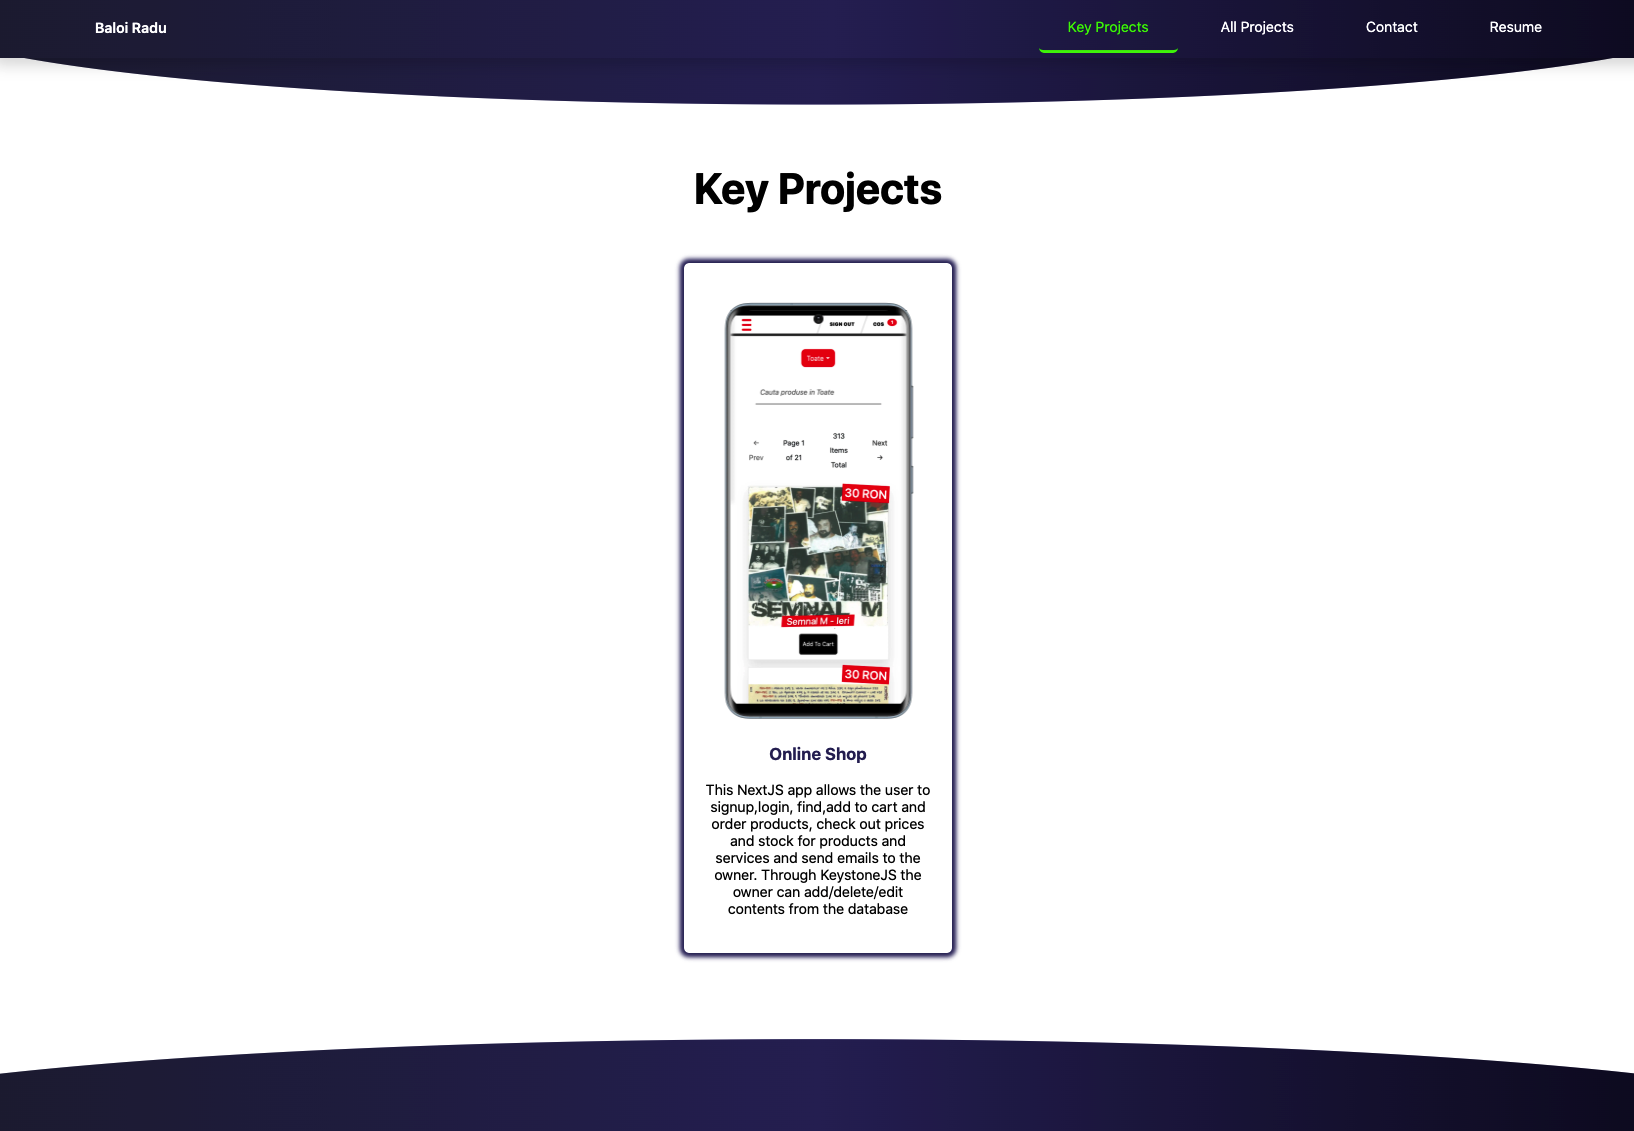
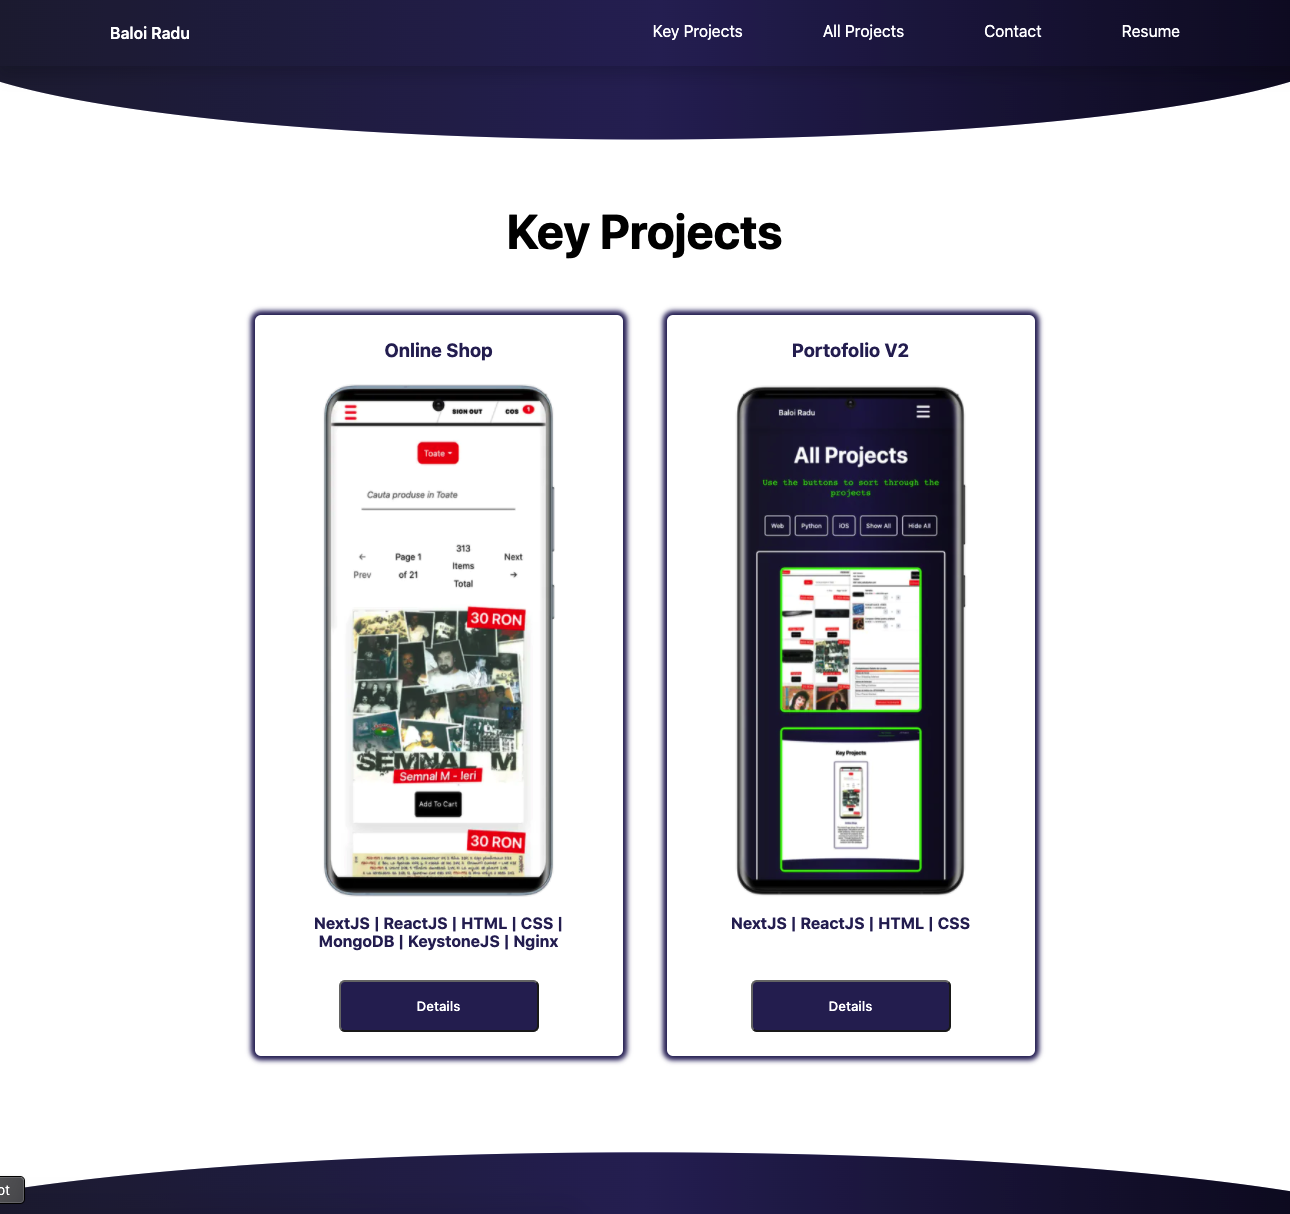
modal details

diff --git a/public/sw.js b/public/sw.js
@@ -1,1 +1,1 @@
-if(!self.define){let e,s={};const a=(a,n)=>(a=new URL(a+".js",n).href,s[a]||new Promise((s=>{if("document"in self){const e=document.createElement("script");e.src=a,e.onload=s,document.head.appendChild(e)}else e=a,importScripts(a),s()})).then((()=>{let e=s[a];if(!e)throw new Error(`Module ${a} didn’t register its module`);return e})));self.define=(n,i)=>{const t=e||("document"in self?document.currentScript.src:"")||location.href;if(s[t])return;let c={};const r=e=>a(e,t),o={module:{uri:t},exports:c,require:r};s[t]=Promise.all(n.map((e=>o[e]||r(e)))).then((e=>(i(...e),c)))}}define(["./workbox-22294e6b"],(function(e){"use strict";importScripts(),self.skipWaiting(),e.clientsClaim(),e.precacheAndRoute([{url:"/_next//static/media/coding.ed3fb6cf.png",revision:"ly0aYfhYOhMSamR5JObs_"},{url:"/_next//static/media/crawl-thumb.d7b32672.png",revision:"ly0aYfhYOhMSamR5JObs_"},{url:"/_next//static/media/documentation-thumb.f8c19369.png",revision:"ly0aYfhYOhMSamR5JObs_"},{url:"/_next//static/media/face-thumb.a86bdd93.png",revision:"ly0aYfhYOhMSamR5JObs_"},{url:"/_next//static/media/landing-thumb.f00968cf.png",revision:"ly0aYfhYOhMSamR5JObs_"},{url:"/_next//static/media/lesperance-kp.621296b4.png",revision:"ly0aYfhYOhMSamR5JObs_"},{url:"/_next//static/media/lesperance-thumb.85f6aacb.png",revision:"ly0aYfhYOhMSamR5JObs_"},{url:"/_next//static/media/med-thumb.e83ad19d.png",revision:"ly0aYfhYOhMSamR5JObs_"},{url:"/_next//static/media/portofolioV1-thumb.a157a1a7.png",revision:"ly0aYfhYOhMSamR5JObs_"},{url:"/_next//static/media/portofolioV2-kp.1aac147b.png",revision:"ly0aYfhYOhMSamR5JObs_"},{url:"/_next//static/media/portofolioV2-thumb.df14cd91.png",revision:"ly0aYfhYOhMSamR5JObs_"},{url:"/_next//static/media/survey-thumb.ddaf4e2b.png",revision:"ly0aYfhYOhMSamR5JObs_"},{url:"/_next/static/chunks/316-3238504895903330.js",revision:"ly0aYfhYOhMSamR5JObs_"},{url:"/_next/static/chunks/framework-91d7f78b5b4003c8.js",revision:"ly0aYfhYOhMSamR5JObs_"},{url:"/_next/static/chunks/main-857fbf388abd6aa9.js",revision:"ly0aYfhYOhMSamR5JObs_"},{url:"/_next/static/chunks/pages/_app-e461f6980a6d8ea9.js",revision:"ly0aYfhYOhMSamR5JObs_"},{url:"/_next/static/chunks/pages/_error-2280fa386d040b66.js",revision:"ly0aYfhYOhMSamR5JObs_"},{url:"/_next/static/chunks/pages/index-4c1417cb81d77230.js",revision:"ly0aYfhYOhMSamR5JObs_"},{url:"/_next/static/chunks/pages/resume-cce5519a3666b4c4.js",revision:"ly0aYfhYOhMSamR5JObs_"},{url:"/_next/static/chunks/polyfills-5cd94c89d3acac5f.js",revision:"ly0aYfhYOhMSamR5JObs_"},{url:"/_next/static/chunks/webpack-49b6f2937c9ce9f4.js",revision:"ly0aYfhYOhMSamR5JObs_"},{url:"/_next/static/ly0aYfhYOhMSamR5JObs_/_buildManifest.js",revision:"ly0aYfhYOhMSamR5JObs_"},{url:"/_next/static/ly0aYfhYOhMSamR5JObs_/_middlewareManifest.js",revision:"ly0aYfhYOhMSamR5JObs_"},{url:"/_next/static/ly0aYfhYOhMSamR5JObs_/_ssgManifest.js",revision:"ly0aYfhYOhMSamR5JObs_"},{url:"/coding.png",revision:"2380583faf92b951fd2ec2bea6ba87b7"},{url:"/crawl-thumb.png",revision:"9aa47ad6f8ac77877cd6756c1f0fc6ea"},{url:"/documentation-thumb.png",revision:"74f08cfe8c7a28c7a47fc7d53d5607f3"},{url:"/face-thumb.png",revision:"46d01220c0411dc4df367f16cde19919"},{url:"/favicon.ico",revision:"c30c7d42707a47a3f4591831641e50dc"},{url:"/icon-192x192.png",revision:"a1429b2c9112e49d5e8c66d1c4b8622a"},{url:"/icon-256x256.png",revision:"7520cd9bc240e3c0d16ac050ea75d572"},{url:"/icon-384x384.png",revision:"8d9642399c753de1a7b1fac58526164b"},{url:"/icon-512x512.png",revision:"5272fc9888c02477439a3ee0adb5aafb"},{url:"/landing-thumb.png",revision:"ee3525866378cbdbfd126fe57c3933d6"},{url:"/lesperance-kp.png",revision:"b56e2505415a9c3f51dae423afcc9500"},{url:"/lesperance-thumb.png",revision:"b44408da8a3913798038c8f70e282332"},{url:"/manifest.json",revision:"25e7855fbf08a03b76a736e3fc6c4b07"},{url:"/med-thumb.png",revision:"96b6e533fd3c0c49230f8a9e0e51b0ce"},{url:"/portofolioV1-thumb.png",revision:"7b7aba56e488ab448d1175f5137e6597"},{url:"/portofolioV2-kp.png",revision:"6c60e554a42f84a0224410091bf62510"},{url:"/portofolioV2-thumb.png",revision:"0e7b4d0ced24cefc90c13911d785b065"},{url:"/survey-thumb.png",revision:"8fed24d2bd1234091d2b3276728fe664"}],{ignoreURLParametersMatching:[]}),e.cleanupOutdatedCaches(),e.registerRoute("/",new e.NetworkFirst({cacheName:"start-url",plugins:[{cacheWillUpdate:async({request:e,response:s,event:a,state:n})=>s&&"opaqueredirect"===s.type?new Response(s.body,{status:200,statusText:"OK",headers:s.headers}):s}]}),"GET"),e.registerRoute(/^https:\/\/fonts\.(?:gstatic)\.com\/.*/i,new e.CacheFirst({cacheName:"google-fonts-webfonts",plugins:[new e.ExpirationPlugin({maxEntries:4,maxAgeSeconds:31536e3})]}),"GET"),e.registerRoute(/^https:\/\/fonts\.(?:googleapis)\.com\/.*/i,new e.StaleWhileRevalidate({cacheName:"google-fonts-stylesheets",plugins:[new e.ExpirationPlugin({maxEntries:4,maxAgeSeconds:604800})]}),"GET"),e.registerRoute(/\.(?:eot|otf|ttc|ttf|woff|woff2|font.css)$/i,new e.StaleWhileRevalidate({cacheName:"static-font-assets",plugins:[new e.ExpirationPlugin({maxEntries:4,maxAgeSeconds:604800})]}),"GET"),e.registerRoute(/\.(?:jpg|jpeg|gif|png|svg|ico|webp)$/i,new e.StaleWhileRevalidate({cacheName:"static-image-assets",plugins:[new e.ExpirationPlugin({maxEntries:64,maxAgeSeconds:86400})]}),"GET"),e.registerRoute(/\/_next\/image\?url=.+$/i,new e.StaleWhileRevalidate({cacheName:"next-image",plugins:[new e.ExpirationPlugin({maxEntries:64,maxAgeSeconds:86400})]}),"GET"),e.registerRoute(/\.(?:mp3|wav|ogg)$/i,new e.CacheFirst({cacheName:"static-audio-assets",plugins:[new e.RangeRequestsPlugin,new e.ExpirationPlugin({maxEntries:32,maxAgeSeconds:86400})]}),"GET"),e.registerRoute(/\.(?:mp4)$/i,new e.CacheFirst({cacheName:"static-video-assets",plugins:[new e.RangeRequestsPlugin,new e.ExpirationPlugin({maxEntries:32,maxAgeSeconds:86400})]}),"GET"),e.registerRoute(/\.(?:js)$/i,new e.StaleWhileRevalidate({cacheName:"static-js-assets",plugins:[new e.ExpirationPlugin({maxEntries:32,maxAgeSeconds:86400})]}),"GET"),e.registerRoute(/\.(?:css|less)$/i,new e.StaleWhileRevalidate({cacheName:"static-style-assets",plugins:[new e.ExpirationPlugin({maxEntries:32,maxAgeSeconds:86400})]}),"GET"),e.registerRoute(/\/_next\/data\/.+\/.+\.json$/i,new e.StaleWhileRevalidate({cacheName:"next-data",plugins:[new e.ExpirationPlugin({maxEntries:32,maxAgeSeconds:86400})]}),"GET"),e.registerRoute(/\.(?:json|xml|csv)$/i,new e.NetworkFirst({cacheName:"static-data-assets",plugins:[new e.ExpirationPlugin({maxEntries:32,maxAgeSeconds:86400})]}),"GET"),e.registerRoute((({url:e})=>{if(!(self.origin===e.origin))return!1;const s=e.pathname;return!s.startsWith("/api/auth/")&&!!s.startsWith("/api/")}),new e.NetworkFirst({cacheName:"apis",networkTimeoutSeconds:10,plugins:[new e.ExpirationPlugin({maxEntries:16,maxAgeSeconds:86400})]}),"GET"),e.registerRoute((({url:e})=>{if(!(self.origin===e.origin))return!1;return!e.pathname.startsWith("/api/")}),new e.NetworkFirst({cacheName:"others",networkTimeoutSeconds:10,plugins:[new e.ExpirationPlugin({maxEntries:32,maxAgeSeconds:86400})]}),"GET"),e.registerRoute((({url:e})=>!(self.origin===e.origin)),new e.NetworkFirst({cacheName:"cross-origin",networkTimeoutSeconds:10,plugins:[new e.ExpirationPlugin({maxEntries:32,maxAgeSeconds:3600})]}),"GET")}));
+if(!self.define){let e,n={};const s=(s,i)=>(s=new URL(s+".js",i).href,n[s]||new Promise((n=>{if("document"in self){const e=document.createElement("script");e.src=s,e.onload=n,document.head.appendChild(e)}else e=s,importScripts(s),n()})).then((()=>{let e=n[s];if(!e)throw new Error(`Module ${s} didn’t register its module`);return e})));self.define=(i,a)=>{const t=e||("document"in self?document.currentScript.src:"")||location.href;if(n[t])return;let r={};const c=e=>s(e,t),o={module:{uri:t},exports:r,require:c};n[t]=Promise.all(i.map((e=>o[e]||c(e)))).then((e=>(a(...e),r)))}}define(["./workbox-22294e6b"],(function(e){"use strict";importScripts(),self.skipWaiting(),e.clientsClaim(),e.precacheAndRoute([{url:"/_next//static/media/coding.ed3fb6cf.png",revision:"AYP3fVhU4RW7urj7Ndvqd"},{url:"/_next//static/media/crawl-thumb.d7b32672.png",revision:"AYP3fVhU4RW7urj7Ndvqd"},{url:"/_next//static/media/documentation-thumb.f8c19369.png",revision:"AYP3fVhU4RW7urj7Ndvqd"},{url:"/_next//static/media/face-thumb.a86bdd93.png",revision:"AYP3fVhU4RW7urj7Ndvqd"},{url:"/_next//static/media/landing-thumb.f00968cf.png",revision:"AYP3fVhU4RW7urj7Ndvqd"},{url:"/_next//static/media/lesperance-kp.621296b4.png",revision:"AYP3fVhU4RW7urj7Ndvqd"},{url:"/_next//static/media/lesperance-thumb.85f6aacb.png",revision:"AYP3fVhU4RW7urj7Ndvqd"},{url:"/_next//static/media/med-thumb.e83ad19d.png",revision:"AYP3fVhU4RW7urj7Ndvqd"},{url:"/_next//static/media/portofolioV1-thumb.a157a1a7.png",revision:"AYP3fVhU4RW7urj7Ndvqd"},{url:"/_next//static/media/portofolioV2-kp.1aac147b.png",revision:"AYP3fVhU4RW7urj7Ndvqd"},{url:"/_next//static/media/portofolioV2-thumb.0df3eaee.png",revision:"AYP3fVhU4RW7urj7Ndvqd"},{url:"/_next//static/media/survey-thumb.ddaf4e2b.png",revision:"AYP3fVhU4RW7urj7Ndvqd"},{url:"/_next/static/AYP3fVhU4RW7urj7Ndvqd/_buildManifest.js",revision:"AYP3fVhU4RW7urj7Ndvqd"},{url:"/_next/static/AYP3fVhU4RW7urj7Ndvqd/_middlewareManifest.js",revision:"AYP3fVhU4RW7urj7Ndvqd"},{url:"/_next/static/AYP3fVhU4RW7urj7Ndvqd/_ssgManifest.js",revision:"AYP3fVhU4RW7urj7Ndvqd"},{url:"/_next/static/chunks/316-3238504895903330.js",revision:"AYP3fVhU4RW7urj7Ndvqd"},{url:"/_next/static/chunks/framework-91d7f78b5b4003c8.js",revision:"AYP3fVhU4RW7urj7Ndvqd"},{url:"/_next/static/chunks/main-857fbf388abd6aa9.js",revision:"AYP3fVhU4RW7urj7Ndvqd"},{url:"/_next/static/chunks/pages/_app-e461f6980a6d8ea9.js",revision:"AYP3fVhU4RW7urj7Ndvqd"},{url:"/_next/static/chunks/pages/_error-2280fa386d040b66.js",revision:"AYP3fVhU4RW7urj7Ndvqd"},{url:"/_next/static/chunks/pages/index-6ae18d5e921b32ee.js",revision:"AYP3fVhU4RW7urj7Ndvqd"},{url:"/_next/static/chunks/pages/resume-cce5519a3666b4c4.js",revision:"AYP3fVhU4RW7urj7Ndvqd"},{url:"/_next/static/chunks/polyfills-5cd94c89d3acac5f.js",revision:"AYP3fVhU4RW7urj7Ndvqd"},{url:"/_next/static/chunks/webpack-49b6f2937c9ce9f4.js",revision:"AYP3fVhU4RW7urj7Ndvqd"},{url:"/coding.png",revision:"2380583faf92b951fd2ec2bea6ba87b7"},{url:"/crawl-thumb.png",revision:"9aa47ad6f8ac77877cd6756c1f0fc6ea"},{url:"/documentation-thumb.png",revision:"74f08cfe8c7a28c7a47fc7d53d5607f3"},{url:"/face-thumb.png",revision:"46d01220c0411dc4df367f16cde19919"},{url:"/favicon.ico",revision:"c30c7d42707a47a3f4591831641e50dc"},{url:"/icon-192x192.png",revision:"a1429b2c9112e49d5e8c66d1c4b8622a"},{url:"/icon-256x256.png",revision:"7520cd9bc240e3c0d16ac050ea75d572"},{url:"/icon-384x384.png",revision:"8d9642399c753de1a7b1fac58526164b"},{url:"/icon-512x512.png",revision:"5272fc9888c02477439a3ee0adb5aafb"},{url:"/landing-thumb.png",revision:"ee3525866378cbdbfd126fe57c3933d6"},{url:"/lesperance-kp.png",revision:"b56e2505415a9c3f51dae423afcc9500"},{url:"/lesperance-thumb.png",revision:"b44408da8a3913798038c8f70e282332"},{url:"/manifest.json",revision:"25e7855fbf08a03b76a736e3fc6c4b07"},{url:"/med-thumb.png",revision:"96b6e533fd3c0c49230f8a9e0e51b0ce"},{url:"/portofolioV1-thumb.png",revision:"7b7aba56e488ab448d1175f5137e6597"},{url:"/portofolioV2-kp.png",revision:"6c60e554a42f84a0224410091bf62510"},{url:"/portofolioV2-thumb.png",revision:"fa3b6f14017b9ca78b5b96aa9843d490"},{url:"/survey-thumb.png",revision:"8fed24d2bd1234091d2b3276728fe664"}],{ignoreURLParametersMatching:[]}),e.cleanupOutdatedCaches(),e.registerRoute("/",new e.NetworkFirst({cacheName:"start-url",plugins:[{cacheWillUpdate:async({request:e,response:n,event:s,state:i})=>n&&"opaqueredirect"===n.type?new Response(n.body,{status:200,statusText:"OK",headers:n.headers}):n}]}),"GET"),e.registerRoute(/^https:\/\/fonts\.(?:gstatic)\.com\/.*/i,new e.CacheFirst({cacheName:"google-fonts-webfonts",plugins:[new e.ExpirationPlugin({maxEntries:4,maxAgeSeconds:31536e3})]}),"GET"),e.registerRoute(/^https:\/\/fonts\.(?:googleapis)\.com\/.*/i,new e.StaleWhileRevalidate({cacheName:"google-fonts-stylesheets",plugins:[new e.ExpirationPlugin({maxEntries:4,maxAgeSeconds:604800})]}),"GET"),e.registerRoute(/\.(?:eot|otf|ttc|ttf|woff|woff2|font.css)$/i,new e.StaleWhileRevalidate({cacheName:"static-font-assets",plugins:[new e.ExpirationPlugin({maxEntries:4,maxAgeSeconds:604800})]}),"GET"),e.registerRoute(/\.(?:jpg|jpeg|gif|png|svg|ico|webp)$/i,new e.StaleWhileRevalidate({cacheName:"static-image-assets",plugins:[new e.ExpirationPlugin({maxEntries:64,maxAgeSeconds:86400})]}),"GET"),e.registerRoute(/\/_next\/image\?url=.+$/i,new e.StaleWhileRevalidate({cacheName:"next-image",plugins:[new e.ExpirationPlugin({maxEntries:64,maxAgeSeconds:86400})]}),"GET"),e.registerRoute(/\.(?:mp3|wav|ogg)$/i,new e.CacheFirst({cacheName:"static-audio-assets",plugins:[new e.RangeRequestsPlugin,new e.ExpirationPlugin({maxEntries:32,maxAgeSeconds:86400})]}),"GET"),e.registerRoute(/\.(?:mp4)$/i,new e.CacheFirst({cacheName:"static-video-assets",plugins:[new e.RangeRequestsPlugin,new e.ExpirationPlugin({maxEntries:32,maxAgeSeconds:86400})]}),"GET"),e.registerRoute(/\.(?:js)$/i,new e.StaleWhileRevalidate({cacheName:"static-js-assets",plugins:[new e.ExpirationPlugin({maxEntries:32,maxAgeSeconds:86400})]}),"GET"),e.registerRoute(/\.(?:css|less)$/i,new e.StaleWhileRevalidate({cacheName:"static-style-assets",plugins:[new e.ExpirationPlugin({maxEntries:32,maxAgeSeconds:86400})]}),"GET"),e.registerRoute(/\/_next\/data\/.+\/.+\.json$/i,new e.StaleWhileRevalidate({cacheName:"next-data",plugins:[new e.ExpirationPlugin({maxEntries:32,maxAgeSeconds:86400})]}),"GET"),e.registerRoute(/\.(?:json|xml|csv)$/i,new e.NetworkFirst({cacheName:"static-data-assets",plugins:[new e.ExpirationPlugin({maxEntries:32,maxAgeSeconds:86400})]}),"GET"),e.registerRoute((({url:e})=>{if(!(self.origin===e.origin))return!1;const n=e.pathname;return!n.startsWith("/api/auth/")&&!!n.startsWith("/api/")}),new e.NetworkFirst({cacheName:"apis",networkTimeoutSeconds:10,plugins:[new e.ExpirationPlugin({maxEntries:16,maxAgeSeconds:86400})]}),"GET"),e.registerRoute((({url:e})=>{if(!(self.origin===e.origin))return!1;return!e.pathname.startsWith("/api/")}),new e.NetworkFirst({cacheName:"others",networkTimeoutSeconds:10,plugins:[new e.ExpirationPlugin({maxEntries:32,maxAgeSeconds:86400})]}),"GET"),e.registerRoute((({url:e})=>!(self.origin===e.origin)),new e.NetworkFirst({cacheName:"cross-origin",networkTimeoutSeconds:10,plugins:[new e.ExpirationPlugin({maxEntries:32,maxAgeSeconds:3600})]}),"GET")}));

diff --git a/projectsArray.js b/projectsArray.js
@@ -25,7 +25,7 @@ export const projectsArray = [
     gitLink: "",
     category: "web",
     image: {lesp},
-    stack: ["NextJS","ReactJS","HTML","CSS","MongoDB","KeystoneJS","Nginx"],
+    stack: ["NextJS","ReactJS","Styled Components","HTML","CSS","MongoDB","KeystoneJS","Nginx"],
     description: "NextJS website with dynamic generated pages,allows the user to signup, login, find, add to cart and order products, check out prices and stock for products and services, recieve confirmation order email and send emails to the owner. Through KeystoneJS the owner can add/delete/edit contents from the database and store images to cloudinary"
   },
   {
@@ -36,7 +36,7 @@ export const projectsArray = [
     gitLink: "https://github.com/BRadu98/portofoliu",
     category: "web",
     image: {pv2},
-    stack: ["NextJS","ReactJS","HTML","CSS"],
+    stack: ["NextJS","ReactJS","Styled Components","HTML","CSS"],
     description: "NextJS PWA showcasing my projects. It takes the projects from an array and generates the Key Projects and All Projects sections",
   },
   {

diff --git a/components/styles/KeyProjectsStyles.js b/components/styles/KeyProjectsStyles.js
@@ -80,7 +80,8 @@ export const KeyProjectDetailsStyles = styled.div`
   }
   .link-Btns {
     display: flex;
-    justify-content: space-around;
+    justify-content: center;
+    gap: 2rem;
     flex-wrap: wrap;
     width: 80%;
     a,

diff --git a/pages/api/contact.js b/pages/api/contact.js
@@ -42,7 +42,6 @@ async function sendContactEmail(from,message,name) {
   }
 }
 
-//export default async function contact(req, res) {
 export default async function contact(req, res) {
   try {
     const data = req.body
